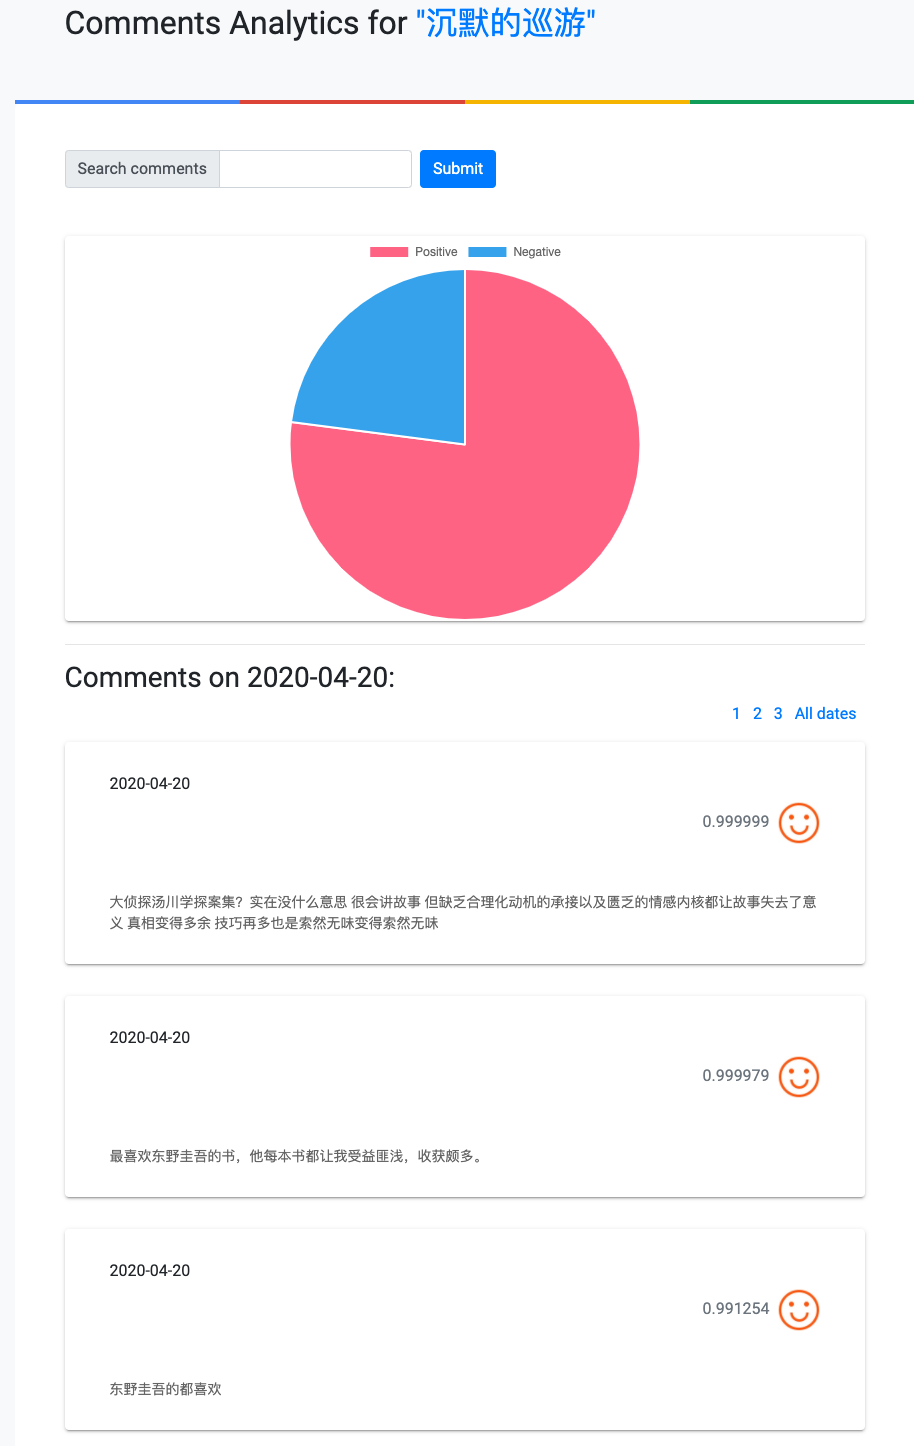
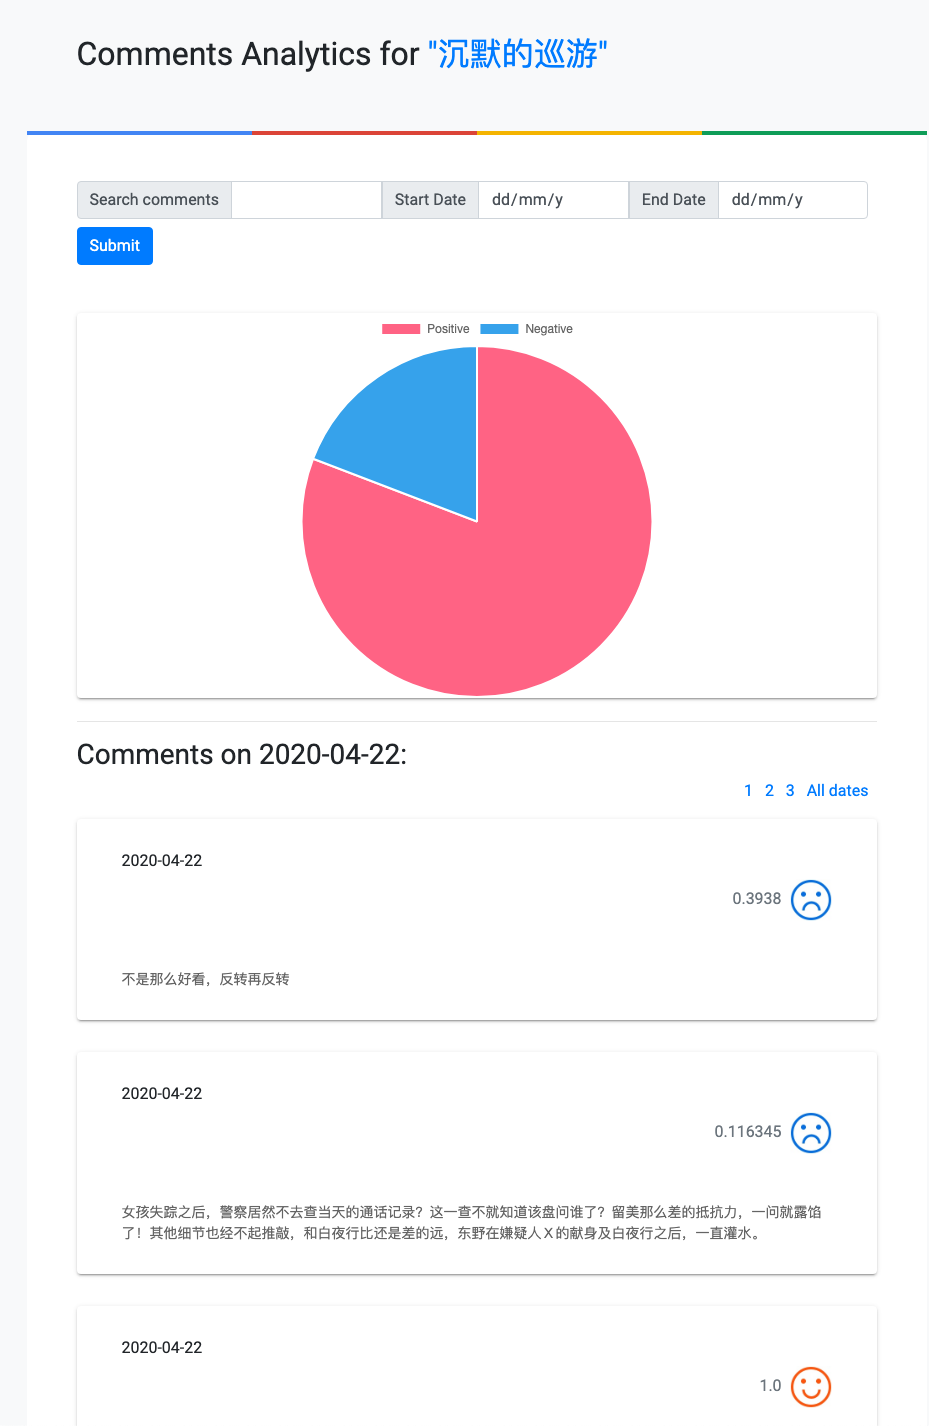
G20190343010242-Week 07

diff --git a/Week_07/G20190343010242/src/frontend/templates/search.html b/Week_07/G20190343010242/src/frontend/templates/search.html
@@ -19,34 +19,32 @@
     </div>
 
     <div class="container posts mt-0">
-        {% if date %}
-        <form class="form-inline" method="POST" action="/search/{{ date }}/1">
-        {% else %}
         <form class="form-inline" method="POST" action="/search/1">
-        {% endif %}
             <label class="sr-only" for="search">Search comments</label>
             <div class="input-group mb-2 mr-sm-2">
                 <div class="input-group-prepend">
                     <div class="input-group-text">Search comments</div>
                 </div>
                 <input type="text" class="form-control" id="search" name="search" value="{{ search }}" required>
+                <div class="input-group-prepend">
+                    <div class="input-group-text">Start Date</div>
+                </div>
+                <input type="date" class="form-control" id="startdate" name="startdate" value="{{ data.dates.start }}">
+                <div class="input-group-prepend">
+                    <div class="input-group-text">End Date</div>
+                </div>
+                <input type="date" class="form-control" id="enddate" name="enddate" value="{{ data.dates.end }}">
             </div>
-            <button type="submit" class="btn btn-primary mb-2">Submit</button>
+            <div>
+                <button type="submit" class="btn btn-primary mb-2">Submit</button>
+            </div>
         </form>
         <div>
-            {% if date %}
-            <h3>Comments on {{ date }}: </h3>
-            {% else %}
             <h3>Comments: </h3>
-            {% endif %}
             <div class="pages" align="right">
                 {% if data.pages > 1 %}
                 {% for i in range(data.pages) %}
-                {% if date %}
-                <span><a href="/search/{{ date }}/{{ i+1 }}?search={{ search }}">{{i+1}}</a></span>
-                {% else %}
-                <span><a href="/search/{{ i+1 }}?search={{ search }}">{{i+1}}</a></span>
-                {% endif %}&nbsp;&nbsp;
+                <span><a href="/search/{{ i+1 }}?search={{ search }}&startdate={{ data.dates.start }}&enddate={{ data.dates.end }}">{{i+1}}</a></span>
                 {% endfor %}
                 {% endif %}
                 <span class="mr-sm-2" align="right"><a href="/">Back home</a></span>
@@ -74,11 +72,7 @@
             <div class="pages" align="right">
                 {% if data.pages > 1 %}
                 {% for i in range(data.pages) %}
-                {% if date %}
-                <span><a href="/search/{{ date }}/{{ i+1 }}?search={{ search }}">{{i+1}}</a></span>
-                {% else %}
-                <span><a href="/search/{{ i+1 }}?search={{ search }}">{{i+1}}</a></span>
-                {% endif %}&nbsp;&nbsp;&nbsp;
+                <span><a href="/search/{{ i+1 }}?search={{ search }}&startdate={{ data.dates.start }}&enddate={{ data.dates.end }}">{{i+1}}</a></span>
                 {% endfor %}
                 {% endif %}
                 <span class="mr-sm-2" align="right"><a href="/">Back home</a></span>

diff --git a/Week_07/G20190343010242/src/frontend/templates/main.html b/Week_07/G20190343010242/src/frontend/templates/main.html
@@ -28,8 +28,18 @@
                     <div class="input-group-text">Search comments</div>
                 </div>
                 <input type="text" class="form-control" id="search" name="search" required>
+                <div class="input-group-prepend">
+                    <div class="input-group-text">Start Date</div>
+                </div>
+                <input type="date" class="form-control" id="startdate" name="startdate">
+                <div class="input-group-prepend">
+                    <div class="input-group-text">End Date</div>
+                </div>
+                <input type="date" class="form-control" id="enddate" name="enddate">
             </div>
-            <button type="submit" class="btn btn-primary mb-2">Submit</button>
+            <div>
+                <button type="submit" class="btn btn-primary mb-2">Submit</button>
+            </div>
         </form>
         <div class="card col-12">
             <canvas id="barChart"></canvas>
@@ -51,7 +61,6 @@
                                   "{{item.count}}",
                                {% endfor %}
                            ],
-                           backgroundColor: ['rgb(255, 99, 132)', 'rgb(54, 162, 235)', 'rgb(255, 205, 86)'],
                            borderColor: 'rgb(255, 99, 132)'
                        }]
                    },

diff --git a/Week_07/G20190343010242/src/frontend/templates/date.html b/Week_07/G20190343010242/src/frontend/templates/date.html
@@ -21,13 +21,21 @@
     </div>
 
     <div class="container posts mt-0">
-        <form class="form-inline" method="POST" action="/search/{{ data.date }}/1">
+        <form class="form-inline" method="POST" action="/search/1">
             <label class="sr-only" for="search">Search comments</label>
             <div class="input-group mb-2 mr-sm-2">
                 <div class="input-group-prepend">
                     <div class="input-group-text">Search comments</div>
                 </div>
                 <input type="text" class="form-control" id="search" name="search" required>
+                <div class="input-group-prepend">
+                    <div class="input-group-text">Start Date</div>
+                </div>
+                <input type="date" class="form-control" id="startdate" name="startdate">
+                <div class="input-group-prepend">
+                    <div class="input-group-text">End Date</div>
+                </div>
+                <input type="date" class="form-control" id="enddate" name="enddate">
             </div>
             <button type="submit" class="btn btn-primary mb-2">Submit</button>
         </form>

diff --git a/Week_07/G20190343010242/src/backend/services/newscomments_svc.py b/Week_07/G20190343010242/src/backend/services/newscomments_svc.py
@@ -25,34 +25,27 @@ class NewsCommentsService:
             date = datetime.strptime(datestr, "%Y-%m-%d")
         return date
 
-    def search_comments(self, q, page=0, page_size=25):
+    def search_comments(self, q, page=0, page_size=25, startdate=None, enddate=None):
         try:
             session = self.db_helper.Session()
             news = session.query(News).filter(News.news_id == self.news_id).first()
-            query = session.query(Comments).filter(Comments.news_id == self.news_id).filter(Comments.comment.contains(q)).order_by(Comments.comment_time.desc())
+            query = session.query(Comments).filter(Comments.news_id == self.news_id).filter(Comments.comment.contains(q))
+            t_query = session.query(func.count('*').label('total')).filter(Comments.news_id == self.news_id).filter(
+                Comments.comment.contains(q))
+            if startdate and startdate != '':
+                query = query.filter(Comments.comment_time >= self.__get_date(startdate))
+                t_query = t_query.filter(Comments.comment_time >= self.__get_date(startdate))
+            if enddate and enddate != '':
+                query = query.filter(Comments.comment_time <= self.__get_date(enddate))
+                t_query = t_query.filter(Comments.comment_time <= self.__get_date(enddate))
+            query = query.order_by(Comments.comment_time.desc())
             results = self.db_helper.query(query, page=page, page_size=page_size)
-            total_comments = int(
-                session.query(func.count('*').label('total')).filter(Comments.news_id == self.news_id).filter(Comments.comment.contains(q))[0][0])
+            total_comments = int(t_query[0][0])
             pages = int(total_comments / page_size) if total_comments % page_size == 0 else int(
                 total_comments / page_size) + 1
             session.close()
-            return {'pages': pages, 'comments': [result.to_dict() for result in results], 'news': news.to_dict()}
-        except Exception as ex:
-            print(ex)
-            return {'pages': 0, 'comments': []}
-
-    def search_comments_by_date(self, q, page=0, page_size=25, datestr=None):
-        try:
-            session = self.db_helper.Session()
-            news = session.query(News).filter(News.news_id == self.news_id).first()
-            query = session.query(Comments).filter(Comments.news_id == self.news_id).filter(Comments.comment.contains(q)).filter(Comments.comment_time == self.__get_date(datestr)).order_by(Comments.comment_time.desc())
-            results = self.db_helper.query(query, page=page, page_size=page_size)
-            total_comments = int(
-                session.query(func.count('*').label('total')).filter(Comments.news_id == self.news_id).filter(Comments.comment.contains(q)).filter(Comments.comment_time == self.__get_date(datestr))[0][0])
-            pages = int(total_comments / page_size) if total_comments % page_size == 0 else int(
-                total_comments / page_size) + 1
-            session.close()
-            return {'date': self.__get_date(datestr).strftime('%Y-%m-%d'), 'pages': pages, 'comments': [result.to_dict() for result in results], 'news': news.to_dict()}
+            return {'dates': {'start': (self.__get_date(startdate).strftime('%Y-%m-%d') if startdate and startdate != '' else ''),
+                              'end': (self.__get_date(enddate).strftime('%Y-%m-%d') if enddate and enddate !='' else '')}, 'pages': pages, 'comments': [result.to_dict() for result in results], 'news': news.to_dict()}
         except Exception as ex:
             print(ex)
             return {'pages': 0, 'comments': []}

diff --git a/Week_07/G20190343010242/src/data/newscomments/newscomments/spiders/newscomments_spider.py b/Week_07/G20190343010242/src/data/newscomments/newscomments/spiders/newscomments_spider.py
@@ -3,6 +3,7 @@ from newscomments.newscomments.items.comments_item import CommentsItem
 from datautils.helper import Helper
 from datautils.db_utils import DbUtils
 from datamodels.news import News
+import re
 
 
 class NewsCommentsSpider(scrapy.Spider):
@@ -11,6 +12,7 @@ class NewsCommentsSpider(scrapy.Spider):
     comments_url = "https://book.douban.com/subject/34786086/comments/new"
     name = "newscomments"
     start_urls = [url]
+    comments_per_page = 20
     dbUtils = DbUtils()
 
     def parse(self, response):
@@ -19,7 +21,12 @@ class NewsCommentsSpider(scrapy.Spider):
         self.__add_news(News(news_id=news_id, news_name=news_name, source=self.url))
         item = CommentsItem()
         item['news_id'] = news_id
-        yield scrapy.Request(self.comments_url, meta={'item': item}, callback=self.__parse_comments)
+        total_comments = int(re.findall(r'\d+', response.xpath("//div[@id='content']/div/div[@class='article']/div[@class='related_info']/div[@class='mod-hd']/h2[1]/span[@class='pl']/a/text()").extract_first().strip())[0])
+        pages = int(total_comments / self.comments_per_page) if total_comments % self.comments_per_page == 0 else int(total_comments / self.comments_per_page) + 1
+        # Get all comments in pages
+        urls = [f'{self.comments_url}?p={p+1}' for p in range(pages)]
+        for c_url in urls:
+            yield scrapy.Request(c_url, meta={'item': item}, callback=self.__parse_comments)
 
     def __parse_comments(self, response):
         for sel in response.xpath("//div[@id='comments']/ul/li"):

diff --git a/Week_07/G20190343010242/src/frontend/app.py b/Week_07/G20190343010242/src/frontend/app.py
@@ -32,26 +32,21 @@ def go_date(datestr, page):
 def search(page):
     try:
         q = request.form['search']
+        startdate = request.form['startdate']
+        enddate = request.form['enddate']
         if not q or q == '':
             q = request.args.get('search')
+        if not startdate or startdate == '':
+            startdate = request.args.get('startdate', '')
+        if not enddate or enddate == '':
+            enddate = request.args.get('enddate', '')
     except:
         q = request.args.get('search')
-    url = f'{app.config["API_ADDR"]}/search/{page}?q={q}'
+        startdate = request.args.get('startdate', '')
+        enddate = request.args.get('enddate', '')
+    url = f'{app.config["API_ADDR"]}/search/{page}?q={q}&startdate={startdate}&enddate={enddate}'
     resp = json.loads(requests.get(url, timeout=3).text)
     return render_template('search.html', data=resp, page=page, search=q)
-
-
-@app.route('/search/<string:date>/<int:page>', methods=['GET', 'POST'])
-def search_by_date(date, page):
-    try:
-        q = request.form['search']
-        if not q or q == '':
-            q = request.args.get('search')
-    except:
-        q = request.args.get('search')
-    url = f'{app.config["API_ADDR"]}/search/{date}/{page}?q={q}'
-    resp = json.loads(requests.get(url, timeout=3).text)
-    return render_template('search.html', data=resp, page=page, search=q, date=date)
 
 
 if __name__ == '__main__':

diff --git a/Week_07/G20190343010242/src/data/newscomments/newscomments/pipelines/comments_pipeline.py b/Week_07/G20190343010242/src/data/newscomments/newscomments/pipelines/comments_pipeline.py
@@ -13,14 +13,16 @@ class CommentsPipeline(object):
     def close_spider(self, spider):
         if len(self.data) > 0:
             latest_comment_id = self.__get_latest_comment_id(self.data[0].news_id)
-            print(f"id: {latest_comment_id}")
+            # Filter data
             data = list(filter(lambda c: c.comment_id > latest_comment_id, self.data))
             self.dbUtils.insert(data)
 
     def process_item(self, item, spider):
         if item:
-            sentiment = self.__sentiment(item['comment'])
-            self.data.append(Comments(comment=item['comment'], news_id=item['news_id'], comment_id=item['comment_id'], comment_time=item['comment_time'], sentiment=sentiment))
+            # Clean data
+            if item['comment'] and item['comment'] != '':
+                sentiment = self.__sentiment(item['comment'])
+                self.data.append(Comments(comment=item['comment'], news_id=item['news_id'], comment_id=item['comment_id'], comment_time=item['comment_time'], sentiment=sentiment))
         return item
 
     def __get_latest_comment_id(self, news_id):

diff --git a/Week_07/G20190343010242/src/backend/app.py b/Week_07/G20190343010242/src/backend/app.py
@@ -12,20 +12,9 @@ def search_comments(page):
         q = request.args.get('q', '')
         if page - 1 <= 0:
             page = 1
-        result = newscomments_service.search_comments(q, page=page-1)
-        return jsonify(result), 200
-    except Exception as ex:
-        return jsonify({'error': ex}), 500
-
-
-@app.route('/search/<string:datestr>/<int:page>', methods=['GET', 'POST'])
-def search_comments_by_date(datestr, page):
-    try:
-        newscomments_service = NewsCommentsService()
-        q = request.args.get('q', '')
-        if page - 1 <= 0:
-            page = 1
-        result = newscomments_service.search_comments_by_date(q, page=page-1, datestr=datestr)
+        startdate = request.args.get('startdate')
+        enddate = request.args.get('enddate')
+        result = newscomments_service.search_comments(q, page=page-1, startdate=startdate, enddate=enddate)
         return jsonify(result), 200
     except Exception as ex:
         return jsonify({'error': ex}), 500

diff --git a/Week_07/G20190343010242/ReadMe.md b/Week_07/G20190343010242/ReadMe.md
@@ -9,6 +9,8 @@ The task here is run on local environment.
 The name of the folders and project may be confusing. The actually source for this task is a douban book instead of a piece of news.
 But the project and code base is also adapted to news. 
 
+It's recommended run the application on Chrome browser, it hasn't been tested on other browsers.
+
 ### Project Structure
 
 - newscomments: This folder stores the [helm chart](https://helm.sh/docs/topics/charts/), which includes the 
@@ -17,7 +19,7 @@ configuration and kubernetes templates.
 - src: Include backend, frontend and data. The backend is used to create models, interact with database, and create 
 business logic. It provides the APIs for the frontend. The frontend is used to render the web pages, call the backend APIs and implement 
 the web logic. The data part is used to collect and manage data from the source. It crawls the web pages to collect the data and store it 
-in the database. The default frequency to collect data is is 10 seconds (This may be too often. 1 hr could be more reasonable).
+in the database. The default frequency to collect data is 10 seconds (This may be too often. 1 hr could be more reasonable).
 
 - skaffold.yaml: Skaffold configuration file. See [doc](https://skaffold.dev/docs/references/yaml/) here.
 
@@ -138,17 +140,16 @@ $ skaffold delete
 You will see the bar chart in the home page, which displays teh number of comments by date. Below the bar chart, you can see 
 the list of comments with details including the sentiment info. You can see pagination on top and bottom of the comments block.
 Each page displays 25 items by default.
-On top of the page, you will see the search bar that you can search text in the comments.  
+On top of the page, you will see the search bar that you can search text in the comments with the date ranges.  
 
 By clicking each bar, you will be directed to the day view page. In this page, you will see a pie chart that gives you idea on 
 numbers of positive and negative comments. Like the main page, below the pie chart, there is the comments block with the date you pick up.
-Also, search bar on top of the pie chart that you can search the comments by the date you pick up. 
+Also, search bar on top of the pie chart that you can search the comments with the date ranges. 
 
 ** Data Collection ** 
 
-For the particular case in this project, it doesn't use pandas to clean and remove duplicate data. Instead, it uses the 
-comment id which is crawled from the source. The comment id is integer and unique, so you just need to anchor the max comment id each time before 
-you collect new data. You only need to insert into the database for the comments whose comment id are greater than the max one. For the empty database,
+For the particular case in this project, it uses the comment id which is crawled from the source. The comment id is integer and unique, so you just need to anchor the max comment id each time before 
+you collect new data. Also, you need to clean the data whose comment is missing. You only need to insert into the database for the comments whose comment id are greater than the max one. For the empty database,
 the max comment id is 0. But you can still think about using pandas for other purposes.
 
 ### Screenshots
@@ -162,8 +163,7 @@ the max comment id is 0. But you can still think about using pandas for other pu
 ![day page](resources/day.png)
 
 - Search page:
-  If you search on main page, it will return the results on all days comments.
-  While if you search on day page, it only returns the results on that day.
+  Search by key words in comments, also support date ranges.
 
 ![search](resources/search.png)
 
@@ -227,13 +227,13 @@ VS Code is quite similar, here is a [quickstart](https://cloud.google.com/code/d
 Due to the time limit, there are a few things that can put into the to-do list in the future.
 
 - Collect data from multiple sources, and classify them.
-- Use pandas to clean data if necessary. Currently there is no data needs to be cleaned.
 - Provide different parsing templates and strategies when crawling from different sources. So the code will be more generic.
 - The home page will display the collection of sources. By clicking each source, the bar chart view is directed.
 - For each source, provide month view against on number of comments.
 - The code is still need to be polished and reviewed, as some of them were not well organized, there are still quite a few duplicates in code.
 - Make more things to be configurable. Like data collection frequency, items per page, etc.
 - Manage and uplift the page templates, employs more MVC web framework together with Flask.
+- Make the pagination more intelligent in case there are many pages to navigate.
 - Bug fixing. Of course, the whole thing is not 100% well tested, there definitely will be bugs. But most of functions are runnable.
 - Train the data with higher accuracy. Currently it just simply uses SnowNLP to analyse the sentiment.
 - Other things when they are come up.
